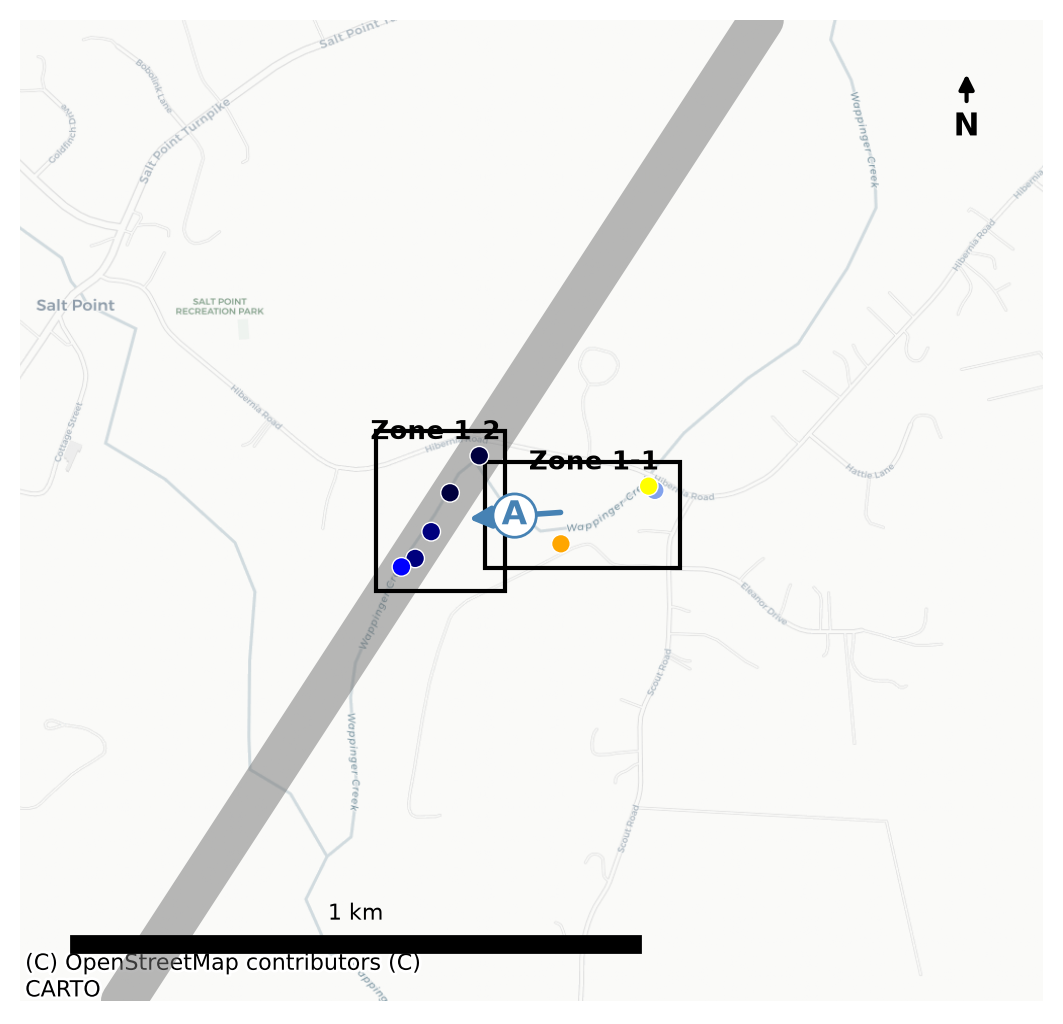
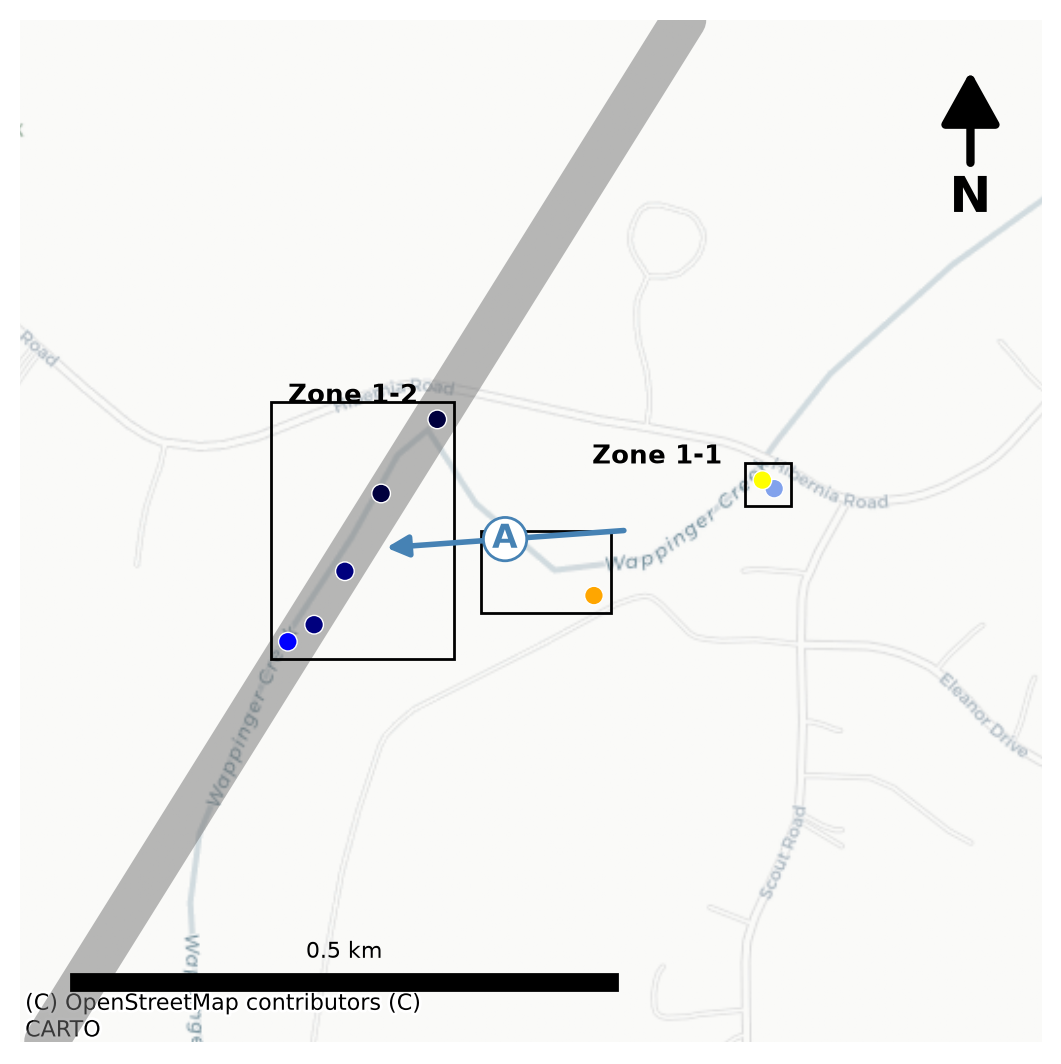
Improve site maps: wider framing, thinner boxes, larger north arrow
- Auto-frame each site from its own points with a generous margin instead of
  hardcoded zoom levels (were too zoomed in)
- Reduce zone/site box line weight (1.5 -> 1.0)
- Replace the small data-coordinate north arrow with a fixed, prominent
  axes-fraction arrow (extent-independent)
- Equal aspect + ground-distance-correct scale bars

diff --git a/src/maps.py b/src/maps.py
@@ -35,15 +35,6 @@ EC_CMAP = LinearSegmentedColormap.from_list(
     "ec", ["lightblue", "blue", "black", "orange", "yellow"]
 )
 
-# Per-site view: (center lat, lon, half-width in metres). Tuned to frame each
-# site's points with context, echoing the zoom levels in the original script.
-SITE_VIEW = {
-    1: (41.8033, -73.7845, 900),
-    2: (41.7150, -73.8500, 5200),
-    3: (41.7895, -73.7285, 1500),
-}
-
-
 def merc(lon, lat):
     r = 6378137.0
     x = r * math.radians(lon)
@@ -60,23 +51,35 @@ def add_scalebar(ax, x0, y0, length_m, lat):
             ha="center", va="bottom", fontsize=8, zorder=6)
 
 
-def north_arrow(ax, x, y, size):
-    ax.annotate("N", xy=(x, y), xytext=(x, y - size),
-                arrowprops=dict(arrowstyle="-|>", color="black", lw=1.5),
-                ha="center", va="center", fontsize=11, fontweight="bold", zorder=6)
+def north_arrow(ax):
+    """Prominent north arrow at a fixed size (axes fraction, extent-independent)."""
+    ax.annotate("N", xy=(0.93, 0.955), xytext=(0.93, 0.80),
+                xycoords="axes fraction", textcoords="axes fraction",
+                arrowprops=dict(arrowstyle="-|>,head_width=0.5,head_length=0.9",
+                                color="black", lw=3),
+                ha="center", va="bottom", fontsize=18, fontweight="bold",
+                zorder=8)
 
 
 def draw_site(site, df, zframes):
-    clat, clon, half = SITE_VIEW[site]
-    cx0, cy0 = merc(clon, clat)
-    stretch = 1.0 / math.cos(math.radians(clat))
-    half_x = half * stretch
+    import pandas as pd
+    zones = SITE_ZONES[site]
+    site_pts = pd.concat([zframes[z] for z in zones])
+    clat = float(site_pts["lat"].mean())
 
-    fig, ax = plt.subplots(figsize=(5.2, 5.0))
+    # Auto-frame from the site's own points with a generous margin so the map
+    # is not zoomed in tight on the survey line.
+    px, py = zip(*[merc(lo, la) for lo, la in zip(site_pts["lon"], site_pts["lat"])])
+    px, py = np.array(px), np.array(py)
+    cx0, cy0 = (px.min() + px.max()) / 2, (py.min() + py.max()) / 2
+    span = max(np.ptp(px), np.ptp(py))
+    half_x = span * 0.85 + 120  # points fill ~55-60% of the frame
+
+    fig, ax = plt.subplots(figsize=(5.4, 5.2))
     ax.set_xlim(cx0 - half_x, cx0 + half_x)
     ax.set_ylim(cy0 - half_x, cy0 + half_x)
+    ax.set_aspect("equal")
 
-    zones = SITE_ZONES[site]
     all_nec = np.concatenate([zframes[z]["NEC"].to_numpy() for z in zones])
     vlim = np.abs(all_nec).max()
 
@@ -89,12 +92,12 @@ def draw_site(site, df, zframes):
                    s=45, edgecolor="white", linewidth=0.5, zorder=5)
         # Draw a tight box around each contiguous cluster of the zone's points
         # (a zone such as 3-2 is split into two clusters along the reach).
-        pad = half_x * 0.05
-        for cx_, cy_ in _clusters(xs, ys, gap=half_x * 0.4):
+        pad = span * 0.035
+        for cx_, cy_ in _clusters(xs, ys, gap=span * 0.3):
             ax.add_patch(Rectangle(
                 (cx_.min() - pad, cy_.min() - pad),
                 np.ptp(cx_) + 2 * pad, np.ptp(cy_) + 2 * pad,
-                fill=False, edgecolor="black", lw=1.5, zorder=4))
+                fill=False, edgecolor="black", lw=1.0, zorder=4))
         # label near the zone's largest cluster, offset to reduce collisions
         ax.annotate(f"Zone {z}", (xs.mean(), ys.max()),
                     textcoords="offset points", xytext=(0, 6),
@@ -105,8 +108,6 @@ def draw_site(site, df, zframes):
 
     # fault-trace band: line of best fit through THIS site's InFault points
     # (schematic; over the basemap, under the survey points).
-    import pandas as pd
-    site_pts = pd.concat([zframes[z] for z in zones])
     fault_pts = site_pts[site_pts["InFault"] == "yes"]
     if len(fault_pts) >= 2:
         fx, fy = zip(*[merc(lo, la) for lo, la in zip(fault_pts["lon"], fault_pts["lat"])])
@@ -136,8 +137,9 @@ def draw_site(site, df, zframes):
                     ha="center", va="center",
                     bbox=dict(boxstyle="circle,pad=0.15", fc="white", ec=color))
 
-    add_scalebar(ax, cx0 - half_x * 0.9, cy0 - half_x * 0.9, _round_scale(half), clat)
-    north_arrow(ax, cx0 + half_x * 0.85, cy0 + half_x * 0.9, half_x * 0.12)
+    add_scalebar(ax, cx0 - half_x * 0.9, cy0 - half_x * 0.9,
+                 _round_scale(half_x * math.cos(math.radians(clat))), clat)
+    north_arrow(ax)
     ax.set_axis_off()
     fig.tight_layout(pad=0.3)
     out = FIG / f"site{site}.png"
@@ -184,8 +186,8 @@ def draw_overview(df, zframes):
     pts = df.dropna(subset=["lat", "lon"])
     xs, ys = zip(*[merc(lo, la) for lo, la in zip(pts["lon"], pts["lat"])])
     xs, ys = np.array(xs), np.array(ys)
-    cx0, cy0 = xs.mean(), ys.mean()
-    half = max(np.ptp(xs), np.ptp(ys)) * 0.62
+    cx0, cy0 = (xs.min() + xs.max()) / 2, (ys.min() + ys.max()) / 2
+    half = max(np.ptp(xs), np.ptp(ys)) * 0.62 + 1500
 
     fig, ax = plt.subplots(figsize=(5.4, 5.2))
     ax.set_xlim(cx0 - half, cx0 + half)
@@ -193,24 +195,27 @@ def draw_overview(df, zframes):
 
     nec_all = np.concatenate([zframes[z]["NEC"].to_numpy() for z in zframes])
     vlim = np.abs(nec_all).max()
+    import pandas as pd
     for site, zs in SITE_ZONES.items():
-        import pandas as pd
         sp = pd.concat([zframes[z] for z in zs])
         sx, sy = zip(*[merc(lo, la) for lo, la in zip(sp["lon"], sp["lat"])])
         sx, sy = np.array(sx), np.array(sy)
         ax.scatter(sx, sy, c=sp["NEC"], cmap=EC_CMAP, vmin=-vlim, vmax=vlim,
                    s=22, edgecolor="white", linewidth=0.3, zorder=5)
-        pad = half * 0.05
+        pad = half * 0.04
         ax.add_patch(Rectangle((sx.min() - pad, sy.min() - pad),
                                np.ptp(sx) + 2 * pad, np.ptp(sy) + 2 * pad,
-                               fill=False, edgecolor="black", lw=1.4,
+                               fill=False, edgecolor="black", lw=1.0,
                                linestyle=(0, (5, 4)), zorder=6))
         ax.annotate(f"Site {site}", (sx.mean(), sy.max() + pad),
-                    textcoords="offset points", xytext=(0, 5), ha="center",
-                    fontsize=11, fontweight="bold", zorder=7)
+                    textcoords="offset points", xytext=(0, 6), ha="center",
+                    fontsize=12, fontweight="bold", zorder=7)
     add_basemap_safe(ax)
-    add_scalebar(ax, cx0 - half * 0.9, cy0 - half * 0.92, 5000, cy_to_lat(cy0))
-    north_arrow(ax, cx0 + half * 0.85, cy0 + half * 0.9, half * 0.1)
+    add_scalebar(ax, cx0 - half * 0.9, cy0 - half * 0.92,
+                 _round_scale(half * math.cos(math.radians(cy_to_lat(cy0)))),
+                 cy_to_lat(cy0))
+    north_arrow(ax)
+    ax.set_aspect("equal")
     ax.set_axis_off()
     fig.tight_layout(pad=0.3)
     out = FIG / "overview.png"
